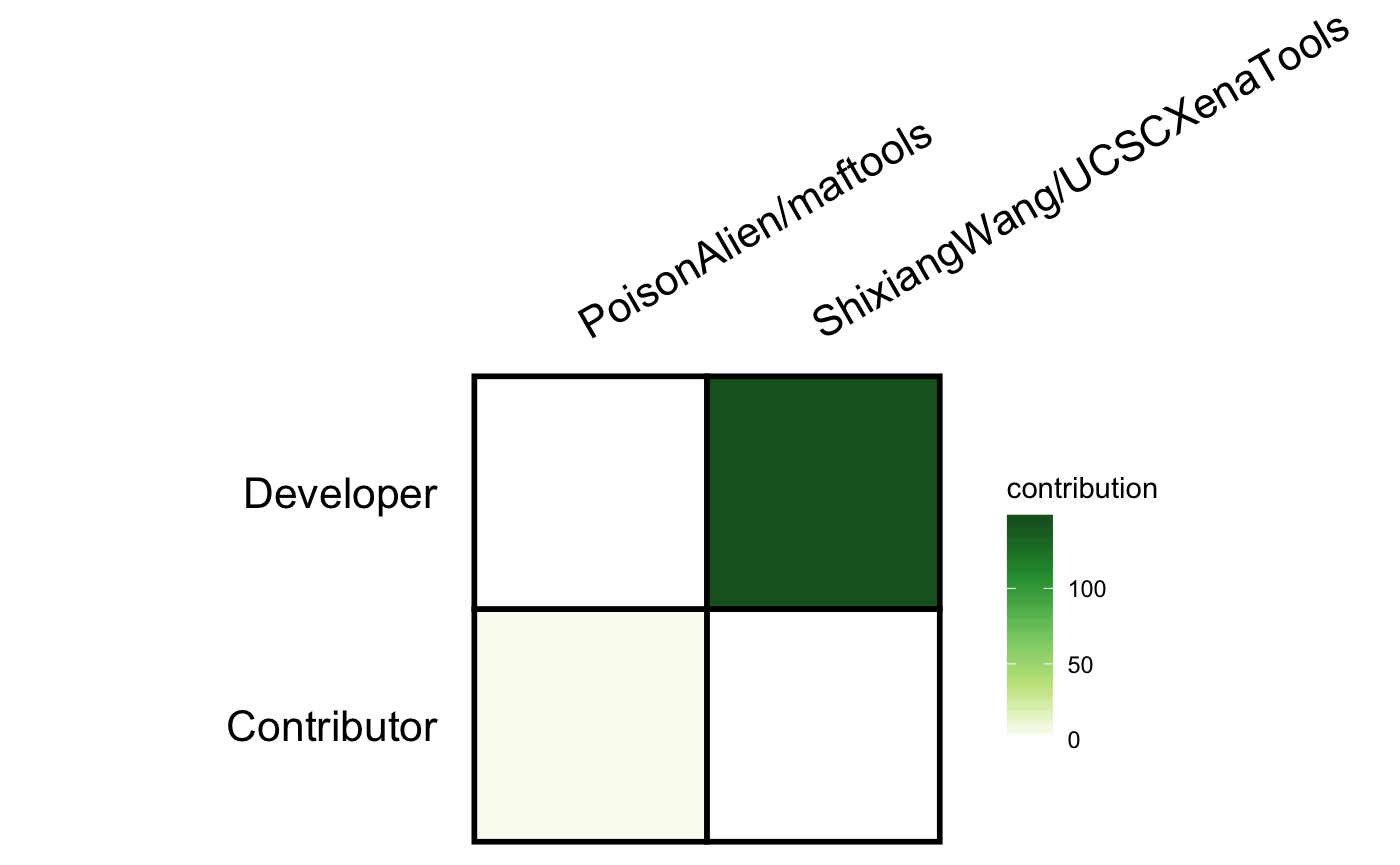
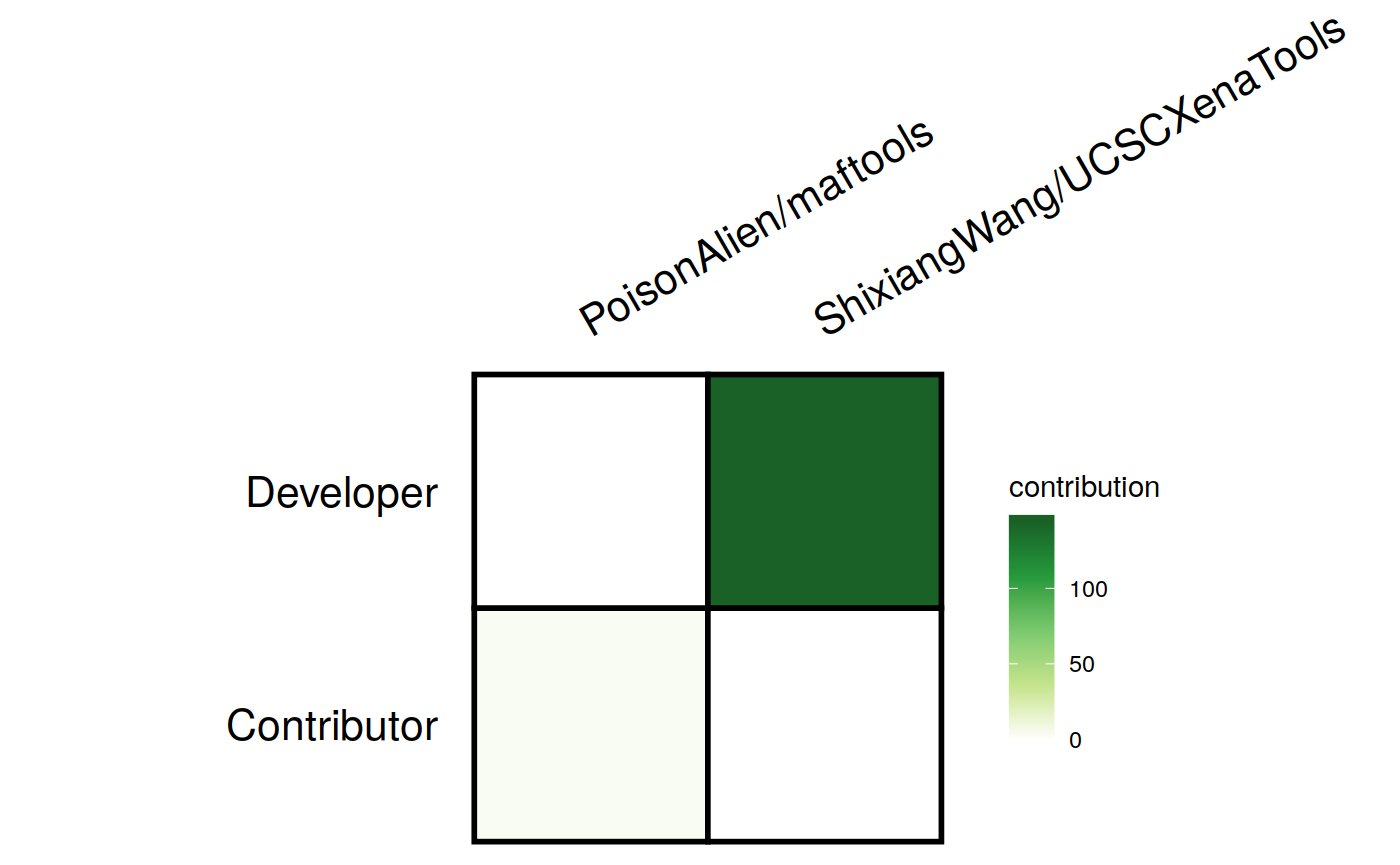
update website

diff --git a/docs/reference/generate.html b/docs/reference/generate.html
@@ -225,7 +225,7 @@ top-left of the plot by default.</p></td>
 <span class='co'># Paper contributions</span>
 <span class='fu'>generate</span>(<span class='no'>demo</span>)</div><div class='img'><img src='generate-1.png' alt='' width='700' height='433' /></div><div class='input'><span class='fu'>generate</span>(<span class='no'>demo</span>, <span class='kw'>text_angle_x</span> <span class='kw'>=</span> <span class='fl'>20</span>, <span class='kw'>color_map</span> <span class='kw'>=</span> <span class='fu'><a href='https://ggplot2.tidyverse.org/reference/scale_brewer.html'>scale_fill_brewer</a></span>(<span class='kw'>palette</span> <span class='kw'>=</span> <span class='st'>"Oranges"</span>))</div><div class='img'><img src='generate-2.png' alt='' width='700' height='433' /></div><div class='input'>
 <span class='co'># Github project contributions</span>
-<span class='no'>my_contr</span> <span class='kw'>&lt;-</span> <span class='kw pkg'>dplyr</span><span class='kw ns'>::</span><span class='fu'><a href='https://www.rdocumentation.org/packages/dplyr/topics/reexports'>tibble</a></span>(
+<span class='no'>my_contr</span> <span class='kw'>&lt;-</span> <span class='kw pkg'>dplyr</span><span class='kw ns'>::</span><span class='fu'><a href='https://dplyr.tidyverse.org/reference/reexports.html'>tibble</a></span>(
   <span class='kw'>repo</span> <span class='kw'>=</span> <span class='fu'><a href='https://www.rdocumentation.org/packages/base/topics/c'>c</a></span>(<span class='st'>"UCSCXenaTools"</span>, <span class='st'>"maftools"</span>),
   <span class='kw'>owner</span> <span class='kw'>=</span> <span class='fu'><a href='https://www.rdocumentation.org/packages/base/topics/c'>c</a></span>(<span class='st'>"ShixiangWang"</span>, <span class='st'>"PoisonAlien"</span>),
   <span class='kw'>username</span> <span class='kw'>=</span> <span class='st'>"ShixiangWang"</span>,
@@ -236,13 +236,17 @@ top-left of the plot by default.</p></td>
 #&gt;   repo          owner        username     role       
 #&gt;   </span><span style='color: #949494;font-style: italic;'>&lt;chr&gt;</span><span>         </span><span style='color: #949494;font-style: italic;'>&lt;chr&gt;</span><span>        </span><span style='color: #949494;font-style: italic;'>&lt;chr&gt;</span><span>        </span><span style='color: #949494;font-style: italic;'>&lt;chr&gt;</span><span>      
 #&gt; </span><span style='color: #BCBCBC;'>1</span><span> UCSCXenaTools ShixiangWang ShixiangWang Developer  
-#&gt; </span><span style='color: #BCBCBC;'>2</span><span> maftools      PoisonAlien  ShixiangWang Contributor</div><div class='input'><span class='no'>contr_tb</span> <span class='kw'>&lt;-</span> <span class='fu'><a href='pull_github.html'>pull_github</a></span>(<span class='kw'>data</span> <span class='kw'>=</span> <span class='no'>my_contr</span>)</div><div class='output co'>#&gt; <span class='error'>Error in gh::gh("GET /repos/:owner/:repo/stats/contributors", owner = owner,     repo = repo): GitHub API error (403): 403 Forbidden</span>
-#&gt; <span class='error'>  API rate limit exceeded for 112.64.60.236. (But here's the good news: Authenticated requests get a higher rate limit. Check out the documentation for more details.)</span></div><div class='input'>
-<span class='no'>contr_tb</span></div><div class='output co'>#&gt; <span class='error'>Error in eval(expr, envir, enclos): 找不到对象'contr_tb'</span></div><div class='input'>
-<span class='fu'>generate</span>(<span class='no'>contr_tb</span>, <span class='kw'>show_legend</span> <span class='kw'>=</span> <span class='fl'>TRUE</span>, <span class='kw'>hjust_x</span> <span class='kw'>=</span> <span class='fl'>0</span>)</div><div class='output co'>#&gt; <span class='error'>Error in is.data.frame(data): 找不到对象'contr_tb'</span></div><div class='input'><span class='fu'>generate</span>(<span class='no'>contr_tb</span>,
+#&gt; </span><span style='color: #BCBCBC;'>2</span><span> maftools      PoisonAlien  ShixiangWang Contributor</div><div class='input'><span class='no'>contr_tb</span> <span class='kw'>&lt;-</span> <span class='fu'><a href='pull_github.html'>pull_github</a></span>(<span class='kw'>data</span> <span class='kw'>=</span> <span class='no'>my_contr</span>)
+
+<span class='no'>contr_tb</span></div><div class='output co'>#&gt; </span><span style='color: #949494;'># A tibble: 2 x 3</span><span>
+#&gt;   role        `PoisonAlien/maftools` `ShixiangWang/UCSCXenaTools`
+#&gt;   </span><span style='color: #949494;font-style: italic;'>&lt;chr&gt;</span><span>                        </span><span style='color: #949494;font-style: italic;'>&lt;int&gt;</span><span>                        </span><span style='color: #949494;font-style: italic;'>&lt;int&gt;</span><span>
+#&gt; </span><span style='color: #BCBCBC;'>1</span><span> Contributor                      4                            0
+#&gt; </span><span style='color: #BCBCBC;'>2</span><span> Developer                        0                          145</div><div class='input'>
+<span class='fu'>generate</span>(<span class='no'>contr_tb</span>, <span class='kw'>show_legend</span> <span class='kw'>=</span> <span class='fl'>TRUE</span>, <span class='kw'>hjust_x</span> <span class='kw'>=</span> <span class='fl'>0</span>)</div><div class='img'><img src='generate-3.png' alt='' width='700' height='433' /></div><div class='input'><span class='fu'>generate</span>(<span class='no'>contr_tb</span>,
   <span class='kw'>show_legend</span> <span class='kw'>=</span> <span class='fl'>TRUE</span>, <span class='kw'>hjust_x</span> <span class='kw'>=</span> <span class='fl'>0</span>,
   <span class='kw'>palette_name</span> <span class='kw'>=</span> <span class='st'>"psychedelic"</span>
-)</div><div class='output co'>#&gt; <span class='error'>Error in is.data.frame(data): 找不到对象'contr_tb'</span></div></span></pre>
+)</div><div class='img'><img src='generate-4.png' alt='' width='700' height='433' /></div></span></pre>
   </div>
   <div class="col-md-3 hidden-xs hidden-sm" id="sidebar">
     <h2>Contents</h2>

diff --git a/docs/reference/pull_github.html b/docs/reference/pull_github.html
@@ -173,8 +173,10 @@ You can also pass them one by one to the following parameters.</p></td>
     <pre class="examples"><div class='input'><span class='fu'>pull_github</span>(
   <span class='kw'>repo</span> <span class='kw'>=</span> <span class='st'>"UCSCXenaTools"</span>, <span class='kw'>owner</span> <span class='kw'>=</span> <span class='st'>"ShixiangWang"</span>,
   <span class='kw'>username</span> <span class='kw'>=</span> <span class='st'>"ShixiangWang"</span>, <span class='kw'>role</span> <span class='kw'>=</span> <span class='st'>"developer"</span>
-)</div><div class='output co'>#&gt; <span class='error'>Error in gh::gh("GET /repos/:owner/:repo/stats/contributors", owner = owner,     repo = repo): GitHub API error (403): 403 Forbidden</span>
-#&gt; <span class='error'>  API rate limit exceeded for 112.64.60.236. (But here's the good news: Authenticated requests get a higher rate limit. Check out the documentation for more details.)</span></div></pre>
+)</div><div class='output co'>#&gt; <span style='color: #949494;'># A tibble: 1 x 2</span><span>
+#&gt;   role      `ShixiangWang/UCSCXenaTools`
+#&gt;   </span><span style='color: #949494;font-style: italic;'>&lt;chr&gt;</span><span>                            </span><span style='color: #949494;font-style: italic;'>&lt;int&gt;</span><span>
+#&gt; </span><span style='color: #BCBCBC;'>1</span><span> developer                          145</div></span></pre>
   </div>
   <div class="col-md-3 hidden-xs hidden-sm" id="sidebar">
     <h2>Contents</h2>

diff --git a/docs/articles/contribution.html b/docs/articles/contribution.html
@@ -48,8 +48,27 @@
 <li>
   <a href="../reference/index.html">Reference</a>
 </li>
+<li class="dropdown">
+  <a href="#" class="dropdown-toggle" data-toggle="dropdown" role="button" aria-expanded="false">
+    Articles
+     
+    <span class="caret"></span>
+  </a>
+  <ul class="dropdown-menu" role="menu">
+<li>
+      <a href="../articles/github-stats.html">Show GitHub Contributions</a>
+    </li>
+  </ul>
+</li>
       </ul>
-<ul class="nav navbar-nav navbar-right"></ul>
+<ul class="nav navbar-nav navbar-right">
+<li>
+  <a href="https://github.com/ShixiangWang/contribution">
+    <span class="fa fa-github fa-lg"></span>
+     
+  </a>
+</li>
+      </ul>
 </div>
 <!--/.nav-collapse -->
   </div>
@@ -66,7 +85,7 @@
             
             <h4 class="date">2019-07-12</h4>
       
-      
+      <small class="dont-index">Source: <a href="https://github.com/ShixiangWang/contribution/blob/master/vignettes/contribution.Rmd"><code>vignettes/contribution.Rmd</code></a></small>
       <div class="hidden name"><code>contribution.Rmd</code></div>
 
     </div>
